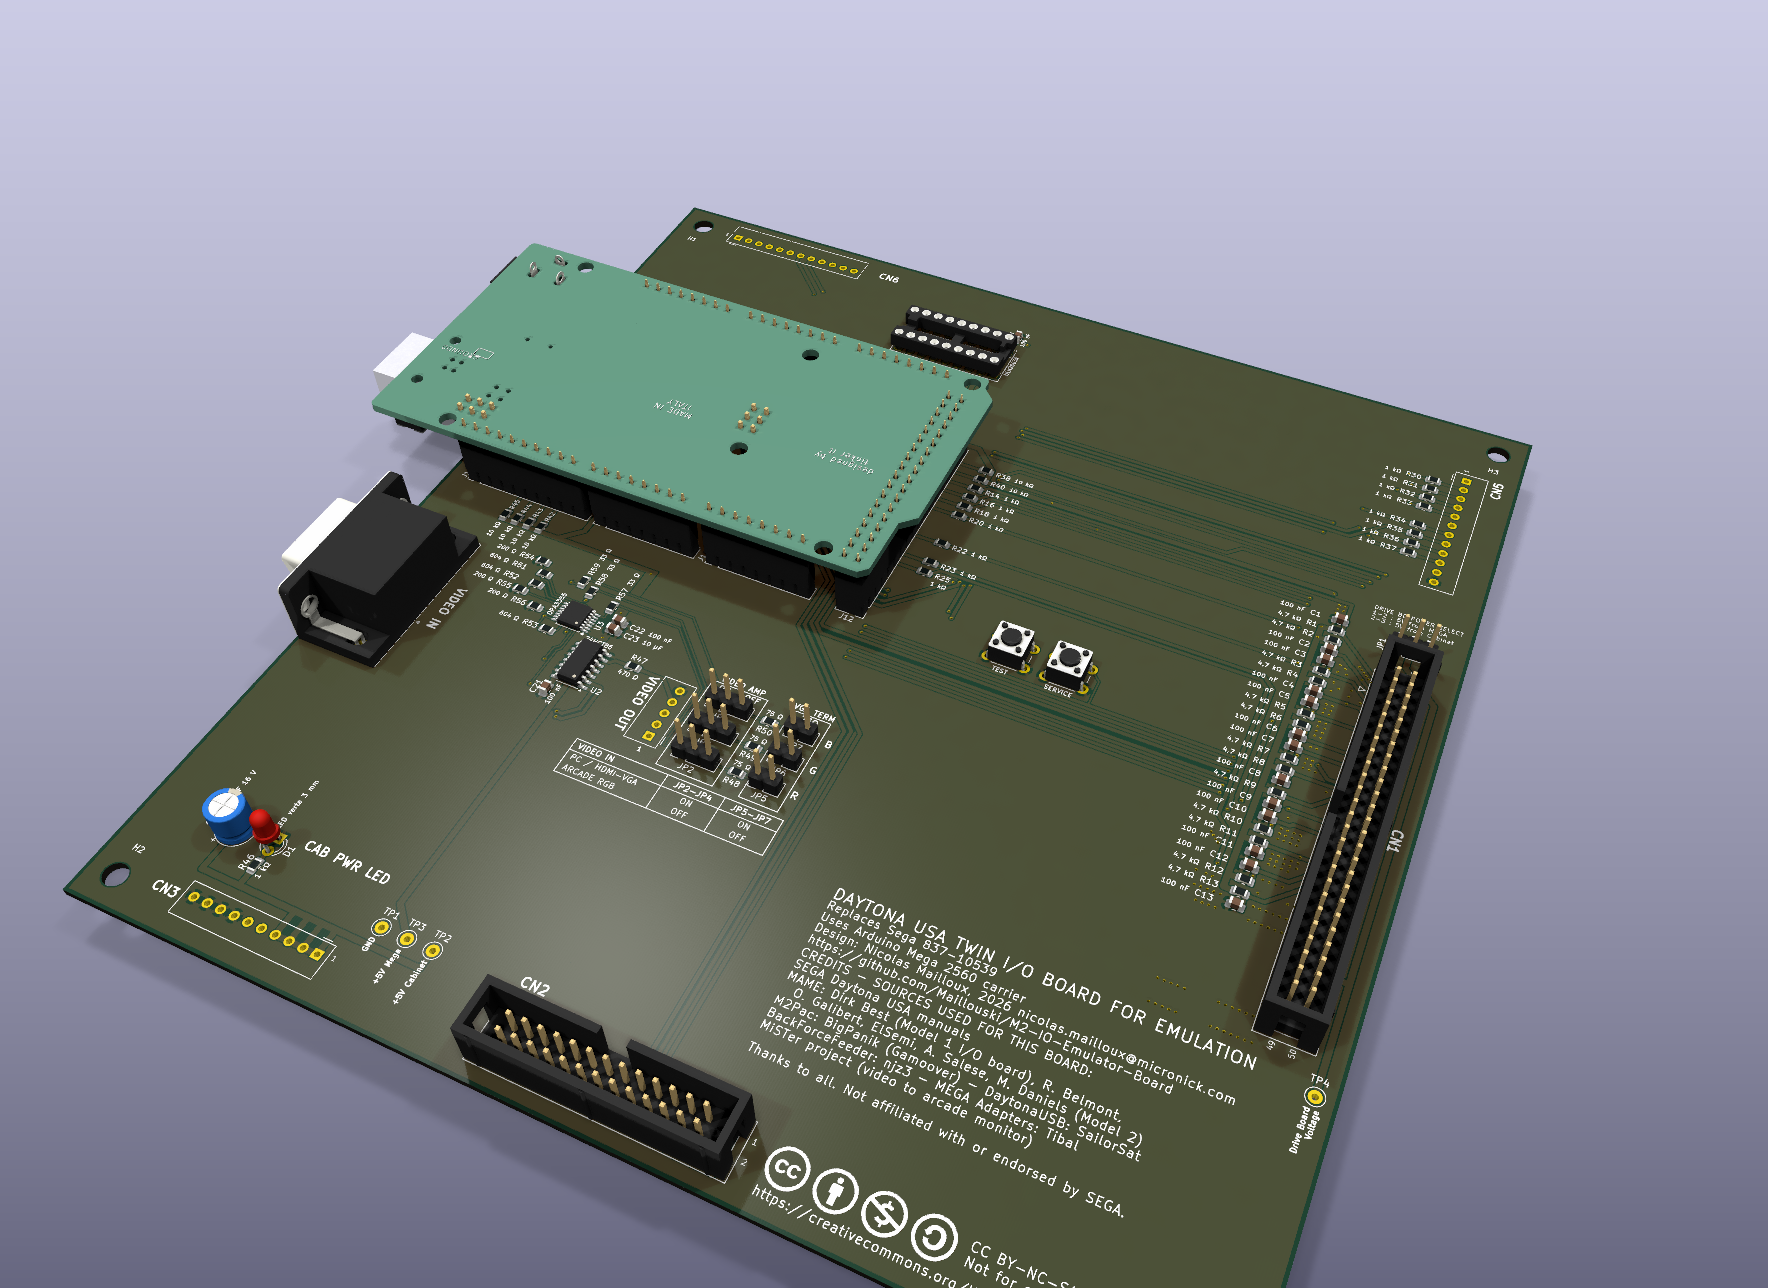
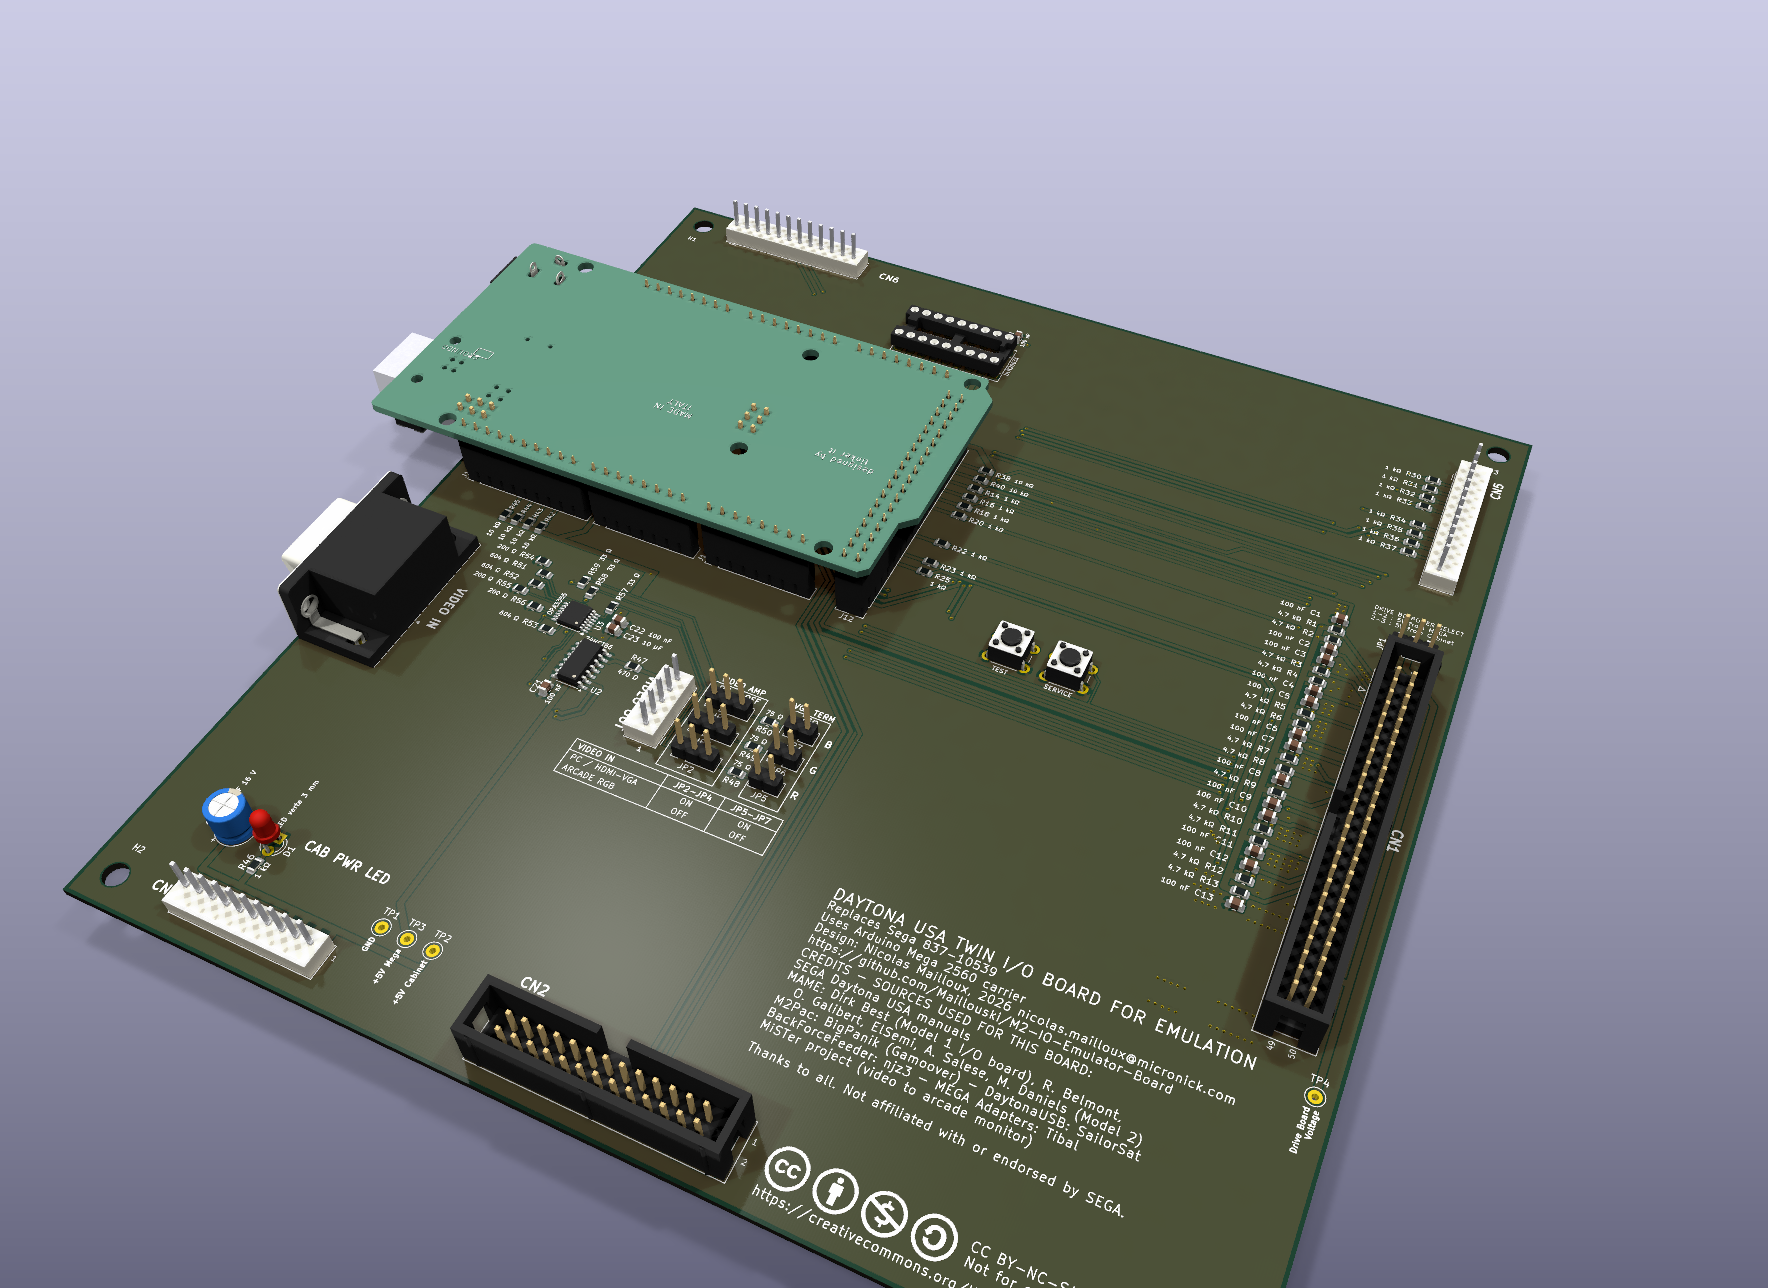
3D models for the JST NH headers (CN3, CN5, CN6, J14), made for this project; renders updated
Simplified base + pins from JST NH datasheet and DigiKey dimensions, in the footprint frame
(no offset/rotation). Only the 3D model blocks changed in the PCB: Gerbers unchanged.

diff --git a/kicad/3d/README.fr.md b/kicad/3d/README.fr.md
@@ -6,6 +6,6 @@
 |---|---|---|---|
 | `Arduino_Mega2560_Rev3e.stpz` | MEGA1 (Arduino Mega 2560, empreinte de carte seulement) | construit à partir des fichiers CAO officiels d'Arduino pour le Mega 2560 Rev3e (`A000067-cad-files.zip`, carte Eagle), avec des modèles 3D de la bibliothèque KiCad posés sur ses composants | CC BY-SA 4.0 (Arduino ; bibliothèques KiCad) |
 | `USB_B_boite_H11.wrl` | MEGA1 (prise USB-B, simple boîte de 16,6 × 12,2 × 11 mm) | fait pour ce projet | CC BY-NC-SA 4.0, comme la carte |
+| `JST_NH_B5P-SHF-1AA_simple.wrl`, `JST_NH_B10P-SHF-1AA_simple.wrl`, `JST_NH_B12P-SHF-1AA_simple.wrl` | J14, J3 (CN3), J4/J5 (CN5/CN6) | modèles simplifiés faits pour ce projet (embase de 3,2 mm de haut et 5,6 mm de profondeur ; broches de 0,64 mm de −3,4 à +9,2 mm), d'après les cotes de la fiche JST NH et de DigiKey | CC BY-NC-SA 4.0, comme la carte |
 
 Toutes les autres pièces utilisent la bibliothèque 3D standard de KiCad 10 (`${KICAD10_3DMODEL_DIR}`).
-Les embases JST NH (J3, J4, J5, J14) n'ont pas de modèle 3D ici : KiCad les signale comme manquants, sans effet sur les Gerbers.

diff --git a/kicad/3d/README.md b/kicad/3d/README.md
@@ -6,7 +6,6 @@
 |---|---|---|---|
 | `Arduino_Mega2560_Rev3e.stpz` | MEGA1 (Arduino Mega 2560, board-only footprint) | Built from Arduino's official CAD files for the Mega 2560 Rev3e (`A000067-cad-files.zip`, Eagle board), with KiCad library 3D models placed on its parts | CC BY-SA 4.0 (Arduino; KiCad libraries) |
 | `USB_B_boite_H11.wrl` | MEGA1 (USB-B jack, plain box 16.6 × 12.2 × 11 mm) | made for this project | CC BY-NC-SA 4.0, like the board |
+| `JST_NH_B5P-SHF-1AA_simple.wrl`, `JST_NH_B10P-SHF-1AA_simple.wrl`, `JST_NH_B12P-SHF-1AA_simple.wrl` | J14, J3 (CN3), J4/J5 (CN5/CN6) | simplified models made for this project (plastic base 3.2 mm high, 5.6 mm deep; 0.64 mm pins from −3.4 to +9.2 mm), from the JST NH datasheet and DigiKey dimensions | CC BY-NC-SA 4.0, like the board |
 
 All other parts use the standard KiCad 10 3D library (`${KICAD10_3DMODEL_DIR}`).
-The JST NH headers (J3, J4, J5, J14) have no 3D model here: KiCad will report them as missing, which does not affect the
-Gerbers.

diff --git a/README.fr.md b/README.fr.md
@@ -43,8 +43,7 @@ Le même tableau est imprimé sur la carte (en anglais).
 
 ## Vues 3D
 
-Rendus KiCad 10 tirés des fichiers de ce dépôt (les connecteurs JST NH n'ont pas de modèle 3D : seules leurs pastilles
-apparaissent).
+Rendus KiCad 10 tirés des fichiers de ce dépôt.
 
 | | |
 |---|---|
@@ -80,8 +79,8 @@ Carte : 2 couches, 180 × 190 mm. Les Gerbers sortent des réglages de tracé en
 ## Modèles 3D
 
 Le modèle de l'Arduino Mega dans `kicad/3d/` est dérivé des fichiers CAO d'Arduino (CC BY-SA 4.0) et de modèles de la
-bibliothèque KiCad ; voir [`kicad/3d/README.fr.md`](kicad/3d/README.fr.md). Les connecteurs JST NH n'ont pas de modèle 3D dans ce
-dépôt.
+bibliothèque KiCad ; voir [`kicad/3d/README.fr.md`](kicad/3d/README.fr.md). Les connecteurs JST NH utilisent des modèles
+simplifiés faits pour ce projet (embase et broches).
 
 ## Crédits
 

diff --git a/README.md b/README.md
@@ -40,7 +40,7 @@ The same table is printed on the board.
 
 ## 3D views
 
-Rendered with KiCad 10 from the files in this repository (the JST NH connectors have no 3D model, so only their pads show).
+Rendered with KiCad 10 from the files in this repository.
 
 | | |
 |---|---|
@@ -76,7 +76,7 @@ Check these before you order or power anything:
 ## 3D models
 
 The Arduino Mega model in `kicad/3d/` is derived from Arduino's CAD files (CC BY-SA 4.0) and KiCad library models; see
-[`kicad/3d/README.md`](kicad/3d/README.md). The JST NH connectors have no 3D model in this repository.
+[`kicad/3d/README.md`](kicad/3d/README.md). The JST NH connectors use simplified models made for this project (plastic base and pins).
 
 ## Credits
 
